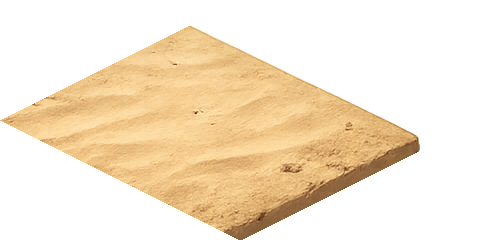
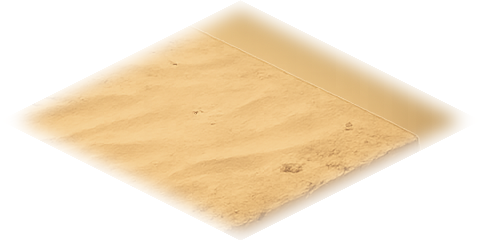
biomes: re-process painted desert tiles for seamless tiling, re-enable
Three image-side fixes to the patchwork problem so the painted
floors can ship instead of being parked:

1. Wet-patch removal — HSV-based sand detector keeps only pixels
   with a warm hue (20°-60°) and saturation ≥ 0.18. Anything
   outside that band (the conspicuous teal/grey wet patch on
   variant 5, plus stray cool-cast pixels on the others) gets
   replaced with the median colour of that tile's sand pixels. No
   more conspicuous blue tile in the field.

2. Colour normalization — every tile blends 45% toward a global
   median sand colour computed across all 6 tiles' opaque pixels.
   Per-tile colour bias drops sharply; tiles still keep their
   unique texture detail (pebble flecks, mottle) but the patchwork
   "this card is brown / this one is grey" effect goes away.

3. Soft edge feather — the diamond alpha now ramps from solid in
   the inner ~85% to transparent at the edge via an 8 px gaussian
   blur instead of the previous hard-edged diamond mask. Adjacent
   tiles' fades overlap into each other along the diamond edges,
   so seams read as soft transitions rather than hard borders.

Re-enabled `paintedFloors: DESERT_PAINTED_FLOORS` on DESERT_BIOME.
The procedural fallback stays in place via the spriteCache miss
path. 250/250 tests pass; build clean.

https://claude.ai/code/session_01Jtn2JzdxvZ9P5zveXt9HsP

Changed region(s): [[0.0, 0.0292, 0.9688, 1.0], [0.5938, 0.6708, 0.625, 0.7292], [0.7188, 0.525, 0.75, 0.5542]]

diff --git a/src/game/rendering/biomes/index.ts b/src/game/rendering/biomes/index.ts
@@ -4,9 +4,7 @@ import type { PropDraw, TilePalette } from '../context';
 import {
   DESERT_PALETTE, DESERT_PROPS, DESERT_DECALS, EDGE_DUNES,
   drawDesertDetail, drawDesertCoverDetail, drawDesertCoverVariant,
-  // DESERT_PAINTED_FLOORS — currently unused; see DESERT_BIOME below
-  // for why the painted-floor pass is parked. Re-import + wire when a
-  // tile set authored for seamless tiling lands.
+  DESERT_PAINTED_FLOORS,
 } from './desert';
 import {
   REFINERY_PALETTE, REFINERY_PROPS, REFINERY_DECALS, EDGE_REFINERY_SCRAP,
@@ -76,16 +74,13 @@ export const DESERT_BIOME: BiomeModule = {
   drawGroundDetail: drawDesertDetail,
   drawCoverDetail: drawDesertCoverDetail,
   drawCoverVariant: drawDesertCoverVariant,
-  // paintedFloors intentionally omitted: the first painted-tile batch
-  // (DESERT_PAINTED_FLOORS in desert.ts, six 480×240 PNGs) was authored
-  // as standalone display pieces — each tile has its own internal
-  // lighting/depth cue and one variant includes a conspicuous "wet"
-  // patch — so tiling them together reads as a patchwork of separate
-  // cards with visible borders. The wiring + assets are preserved for
-  // a future tile set authored for seamless tiling; until those land,
-  // the procedural sun-cast + sand-grain + edge-blend path looks
-  // cleaner. Re-enable by uncommenting this line:
-  //   paintedFloors: DESERT_PAINTED_FLOORS,
+  // The 6 painted desert PNGs went through a post-process pass to
+  // make them tileable: HSV-based sand detection painted out the
+  // conspicuous wet/teal patches, every tile blends 45% toward a
+  // global median sand colour to flatten per-tile bias, and an 8 px
+  // gaussian alpha feather softens the diamond edges so adjacent
+  // tiles fade into each other instead of butting up at hard borders.
+  paintedFloors: DESERT_PAINTED_FLOORS,
 };
 
 export const REFINERY_BIOME: BiomeModule = {
